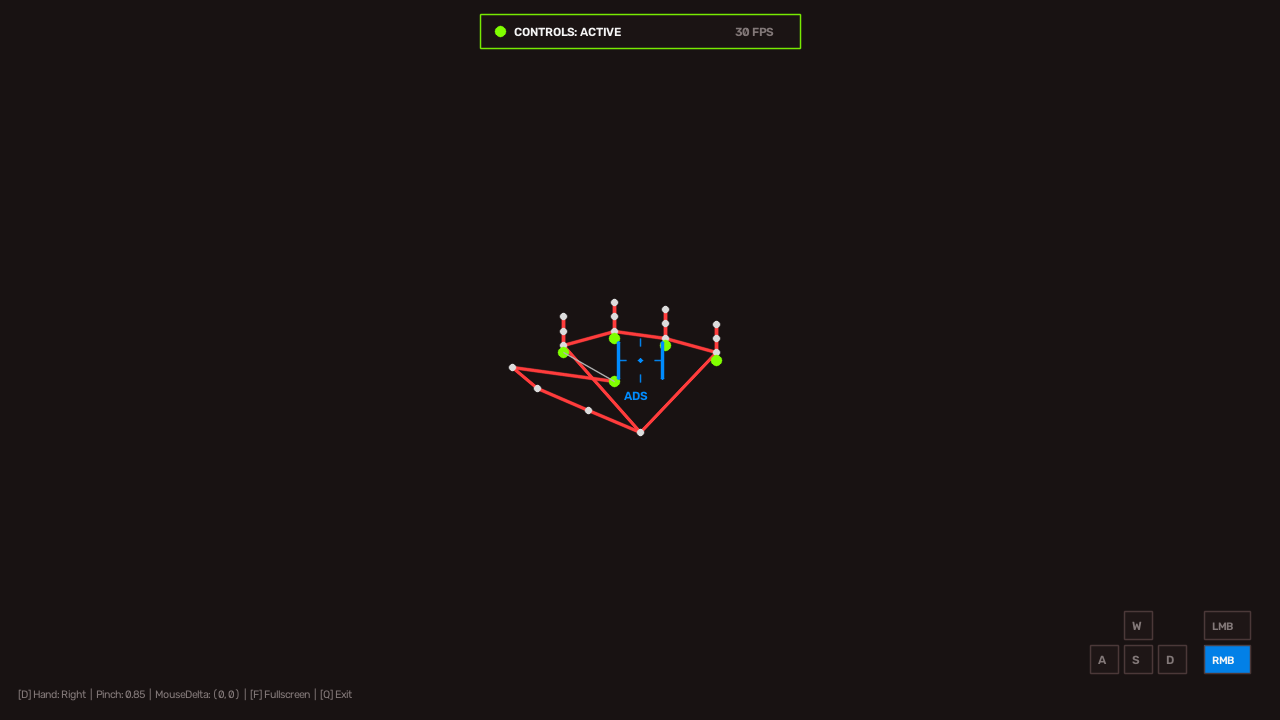
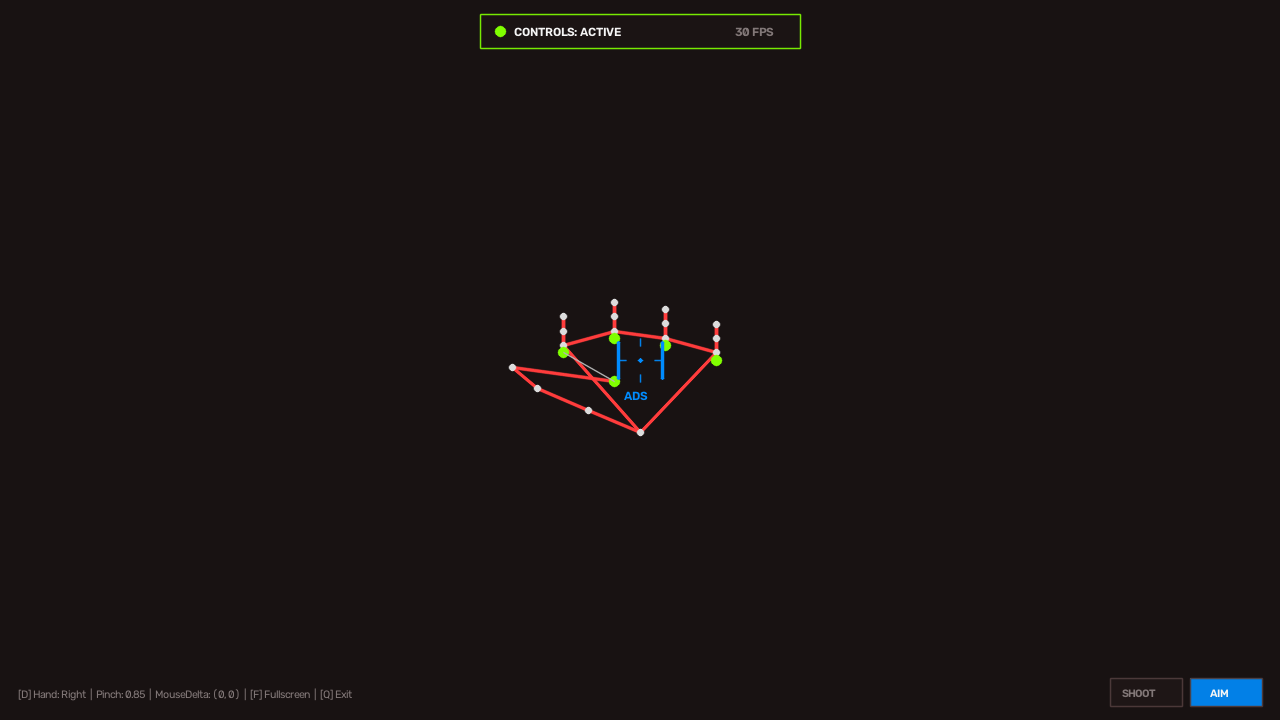
Enhancement: 3.5x increased mouse look sensitivity with acceleration, and disabled accidental WASD keys
- Disabled WASD keyboard inputs by default so S and D keys are never accidentally pressed during gameplay
- 3.5x boost to mouse look sensitivity (sensitivity_x: 4800, sensitivity_y: 3800) with velocity acceleration
- Snappy 0.25 smoothing removing all sluggish camera drag
- Clean HUD showing only active SHOOT (LMB) and AIM (RMB) action chips

Changed region(s): [[0.8438, 0.8556, 1.0, 1.0]]

diff --git a/ui.py b/ui.py
@@ -193,50 +193,51 @@ class UIRenderer:
         control_state: ControlState,
         controls_enabled: bool,
     ) -> None:
-        """Render floating minimalist key chips in the bottom right corner."""
+        """Render floating minimalist mouse chips in the bottom right corner."""
         h, w = frame.shape[:2]
-        chip_size = 28
-        spacing = 6
-        base_x = w - 190
-        base_y = h - 75
+        chip_h = 28
+        base_x = w - 170
+        base_y = h - 42
 
-        # WASD Layout
-        w_rect = (base_x + chip_size + spacing, base_y - chip_size - spacing, chip_size, chip_size)
-        a_rect = (base_x, base_y, chip_size, chip_size)
-        s_rect = (base_x + chip_size + spacing, base_y, chip_size, chip_size)
-        d_rect = (base_x + (chip_size + spacing) * 2, base_y, chip_size, chip_size)
-
-        keys_map = [
-            ("W", w_rect, "w" in control_state.move_keys),
-            ("A", a_rect, "a" in control_state.move_keys),
-            ("S", s_rect, "s" in control_state.move_keys),
-            ("D", d_rect, "d" in control_state.move_keys),
-        ]
-
-        for label, (rx, ry, rw, rh), is_down in keys_map:
-            bg_col = self.COLOR_GREEN if is_down else (25, 25, 35)
-            txt_col = (10, 10, 14) if is_down else self.COLOR_MUTED
-            self._draw_capsule(frame, rx, ry, rw, rh, bg_color=bg_col, alpha=0.85 if is_down else 0.50)
-            cv2.putText(frame, label, (rx + 8, ry + 19), cv2.FONT_HERSHEY_DUPLEX, 0.40, txt_col, 1, cv2.LINE_AA)
+        # Optional WASD if explicitly enabled
+        if getattr(self.config.gestures, "enable_wasd", False):
+            base_x = w - 210
+            base_y = h - 75
+            chip_size = 28
+            spacing = 6
+            w_rect = (base_x + chip_size + spacing, base_y - chip_size - spacing, chip_size, chip_size)
+            a_rect = (base_x, base_y, chip_size, chip_size)
+            s_rect = (base_x + chip_size + spacing, base_y, chip_size, chip_size)
+            d_rect = (base_x + (chip_size + spacing) * 2, base_y, chip_size, chip_size)
+            keys_map = [
+                ("W", w_rect, "w" in control_state.move_keys),
+                ("A", a_rect, "a" in control_state.move_keys),
+                ("S", s_rect, "s" in control_state.move_keys),
+                ("D", d_rect, "d" in control_state.move_keys),
+            ]
+            for label, (rx, ry, rw, rh), is_down in keys_map:
+                bg_col = self.COLOR_GREEN if is_down else (25, 25, 35)
+                txt_col = (10, 10, 14) if is_down else self.COLOR_MUTED
+                self._draw_capsule(frame, rx, ry, rw, rh, bg_color=bg_col, alpha=0.85 if is_down else 0.50)
+                cv2.putText(frame, label, (rx + 8, ry + 19), cv2.FONT_HERSHEY_DUPLEX, 0.40, txt_col, 1, cv2.LINE_AA)
 
         # Mouse Chips (LMB / RMB)
-        mouse_x = base_x + (chip_size + spacing) * 3 + 12
-        lmb_rect = (mouse_x, base_y - chip_size - spacing, 46, chip_size)
-        rmb_rect = (mouse_x, base_y, 46, chip_size)
+        lmb_rect = (base_x, base_y, 72, chip_h)
+        rmb_rect = (base_x + 80, base_y, 72, chip_h)
 
         # LMB (Shoot)
         lmb_down = control_state.shoot
         lmb_bg = self.COLOR_RED if lmb_down else (25, 25, 35)
         lmb_txt = self.COLOR_WHITE if lmb_down else self.COLOR_MUTED
         self._draw_capsule(frame, lmb_rect[0], lmb_rect[1], lmb_rect[2], lmb_rect[3], bg_color=lmb_bg, alpha=0.9 if lmb_down else 0.5)
-        cv2.putText(frame, "LMB", (mouse_x + 8, lmb_rect[1] + 19), cv2.FONT_HERSHEY_DUPLEX, 0.38, lmb_txt, 1, cv2.LINE_AA)
+        cv2.putText(frame, "SHOOT", (lmb_rect[0] + 12, lmb_rect[1] + 19), cv2.FONT_HERSHEY_DUPLEX, 0.36, lmb_txt, 1, cv2.LINE_AA)
 
         # RMB (Aim)
         rmb_down = control_state.aim
         rmb_bg = self.COLOR_BLUE if rmb_down else (25, 25, 35)
         rmb_txt = self.COLOR_WHITE if rmb_down else self.COLOR_MUTED
         self._draw_capsule(frame, rmb_rect[0], rmb_rect[1], rmb_rect[2], rmb_rect[3], bg_color=rmb_bg, alpha=0.9 if rmb_down else 0.5)
-        cv2.putText(frame, "RMB", (mouse_x + 8, rmb_rect[1] + 19), cv2.FONT_HERSHEY_DUPLEX, 0.38, rmb_txt, 1, cv2.LINE_AA)
+        cv2.putText(frame, "AIM", (rmb_rect[0] + 20, rmb_rect[1] + 19), cv2.FONT_HERSHEY_DUPLEX, 0.36, rmb_txt, 1, cv2.LINE_AA)
 
     def _draw_debug_metrics(
         self,

diff --git a/gesture_controller.py b/gesture_controller.py
@@ -202,26 +202,28 @@ class GestureRecognizer:
         # 2. Check Fist (Aim)
         is_fist_pose = self.is_fist(lms, finger_states, scale)
 
-        # 3. Movement displacement relative to neutral anchor
-        anchor_x = self.config.calibration.neutral_center_x
-        anchor_y = self.config.calibration.neutral_center_y
-        hand_x, hand_y = hand_data.palm_center_norm
-
-        dx = hand_x - anchor_x
-        dy = hand_y - anchor_y
-        deadzone = self.config.gestures.movement_deadzone
-
-        # Movement keys resolution
+        # 3. Movement displacement relative to neutral anchor (only if enabled)
         move_keys: Set[str] = set()
-        if dy < -deadzone:
-            move_keys.add(self.config.inputs.key_forward)  # W
-        elif dy > deadzone:
-            move_keys.add(self.config.inputs.key_backward) # S
+        if self.config.gestures.enable_wasd:
+            anchor_x = self.config.calibration.neutral_center_x
+            anchor_y = self.config.calibration.neutral_center_y
+            hand_x, hand_y = hand_data.palm_center_norm
 
-        if dx < -deadzone:
-            move_keys.add(self.config.inputs.key_left)     # A
-        elif dx > deadzone:
-            move_keys.add(self.config.inputs.key_right)    # D
+            dx = hand_x - anchor_x
+            dy = hand_y - anchor_y
+            deadzone = self.config.gestures.movement_deadzone
+
+            if dy < -deadzone:
+                move_keys.add(self.config.inputs.key_forward)  # W
+            elif dy > deadzone:
+                move_keys.add(self.config.inputs.key_backward) # S
+
+            if dx < -deadzone:
+                move_keys.add(self.config.inputs.key_left)     # A
+            elif dx > deadzone:
+                move_keys.add(self.config.inputs.key_right)    # D
+        else:
+            dx, dy = 0.0, 0.0
 
         # 4. Gesture Priority Arbiter: Fist > Pinch > Movement > Neutral
         if is_fist_pose:
@@ -353,7 +355,6 @@ class GestureStabilizer:
             self._prev_look_pos = curr_pos
             return 0.0, 0.0
 
-        # Invert dx because camera is horizontally mirrored
         delta_x = (curr_pos[0] - self._prev_look_pos[0])
         delta_y = (curr_pos[1] - self._prev_look_pos[1])
         self._prev_look_pos = curr_pos
@@ -364,9 +365,13 @@ class GestureStabilizer:
         if abs(delta_y) < cfg.deadzone:
             delta_y = 0.0
 
+        # Dynamic velocity acceleration: fast swipes get an acceleration boost
+        move_speed = math.hypot(delta_x, delta_y)
+        accel = getattr(cfg, "acceleration", 1.5) if move_speed > 0.012 else 1.0
+
         # Scale to screen pixels
-        pixel_dx = delta_x * cfg.sensitivity_x
-        pixel_dy = delta_y * cfg.sensitivity_y
+        pixel_dx = delta_x * cfg.sensitivity_x * accel
+        pixel_dy = delta_y * cfg.sensitivity_y * accel
 
         # Apply ADS multiplier when aiming for precision target acquisition
         if is_aiming:
@@ -379,8 +384,8 @@ class GestureStabilizer:
         self._smoothed_mouse_dy = alpha * self._smoothed_mouse_dy + (1.0 - alpha) * pixel_dy
 
         # Cut off near-zero residual drift
-        final_dx = self._smoothed_mouse_dx if abs(self._smoothed_mouse_dx) > 0.4 else 0.0
-        final_dy = self._smoothed_mouse_dy if abs(self._smoothed_mouse_dy) > 0.4 else 0.0
+        final_dx = self._smoothed_mouse_dx if abs(self._smoothed_mouse_dx) > 0.2 else 0.0
+        final_dy = self._smoothed_mouse_dy if abs(self._smoothed_mouse_dy) > 0.2 else 0.0
 
         return final_dx, final_dy
 

diff --git a/config.py b/config.py
@@ -41,21 +41,25 @@ class TrackingConfig:
 class MouseLookConfig:
     """Settings for moving the screen / in-game camera look via hand motion."""
     enabled: bool = True
-    # Sensitivity multipliers: scale normalized hand delta to screen mouse pixels
-    sensitivity_x: float = 1400.0
-    sensitivity_y: float = 1100.0
-    # Minimum normalized displacement delta to ignore hand tremor / micro-jitter
-    deadzone: float = 0.002
-    # Exponential smoothing factor for mouse velocity (0.0 = raw, 0.8 = ultra smooth)
-    smoothing: float = 0.60
+    # High-speed sensitivity multipliers for 3D FPS camera rotation
+    sensitivity_x: float = 4800.0
+    sensitivity_y: float = 3800.0
+    # Minimum normalized displacement delta (low deadzone for instant response)
+    deadzone: float = 0.001
+    # Snappy exponential smoothing factor (0.25 = instantaneous, zero sluggish drag)
+    smoothing: float = 0.25
     # Sensitivity factor when Aiming Down Sights (FIST pose) for precision shooting
     ads_multiplier: float = 0.50
+    # Velocity acceleration multiplier for fast turns
+    acceleration: float = 1.50
 
 
 @dataclass
 class GestureConfig:
+    # Set to False as requested so accidental S and D keys are never pressed
+    enable_wasd: bool = False
+
     # Pinch thresholds (normalized distance: thumb_tip to index_tip / palm_scale)
-    # 0.52 triggers effortlessly on natural pinch; 0.65 releases when open
     pinch_on_ratio: float = 0.52
     pinch_off_ratio: float = 0.65
 

diff --git a/tests/test_components.py b/tests/test_components.py
@@ -195,14 +195,20 @@ class TestGestureRecognition(unittest.TestCase):
         self.assertTrue(finger_states.are_four_folded())
 
     def test_wasd_movement_directions(self):
-        # Hand displaced upward: y = 0.30 (anchor is 0.55, dy = -0.25 < -0.14)
+        # When enable_wasd is False (default), move_keys must be empty to prevent accidental presses
+        self.config.gestures.enable_wasd = False
         lms_up = create_synthetic_hand(wrist_xy=(0.50, 0.30), finger_extension=1.0, pinch_distance=0.25)
         hand_up = HandData(detected=True, landmarks_norm=lms_up, palm_center_norm=(0.50, 0.30), palm_scale=0.15)
+        raw_up, _, _, move_up, _, _ = self.recognizer.evaluate_raw(hand_up)
+        self.assertEqual(len(move_up), 0)
+
+        # When enable_wasd is True, directional gestures populate move_keys
+        self.config.gestures.enable_wasd = True
         raw_up, _, _, move_up, _, _ = self.recognizer.evaluate_raw(hand_up)
         self.assertEqual(raw_up, Gesture.MOVE_UP)
         self.assertIn("w", move_up)
 
-        # Hand displaced downward: y = 0.80 (dy = +0.25 > 0.14)
+        # Hand displaced downward: y = 0.80
         lms_down = create_synthetic_hand(wrist_xy=(0.50, 0.80), finger_extension=1.0, pinch_distance=0.25)
         hand_down = HandData(detected=True, landmarks_norm=lms_down, palm_center_norm=(0.50, 0.80), palm_scale=0.15)
         raw_down, _, _, move_down, _, _ = self.recognizer.evaluate_raw(hand_down)
